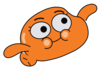
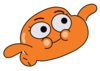
docs(design): Darwin swimming view, notch, mouth and arm joint (NAK-353)

diff --git a/docs/design/darwin/build.py b/docs/design/darwin/build.py
@@ -63,7 +63,7 @@ def front():
 
 
 # Swimming view, traced in the 680x480 crop of the swimming reference.
-SWIM_PTS = [(380, 48), (430, 56), (468, 88), (500, 108), (545, 118), (580, 150), (598, 200),
+SWIM_PTS = [(380, 48), (430, 56), (462, 80), (484, 106), (508, 104), (545, 116), (580, 150), (598, 200),
             (596, 250), (570, 295), (525, 332), (470, 360), (410, 385), (350, 402), (290, 412),
             (240, 405), (195, 380), (160, 340), (142, 290), (140, 240), (155, 190), (190, 140),
             (240, 100), (300, 68), (340, 54)]
@@ -80,7 +80,7 @@ def swim():
         # paths so the joint with the body carries no outline.
         '<path d="M150 352c-28 30-10 80 30 92 36 10 66-6 70-36" fill="%s" %s/>' % (BODY, s),
         '<path d="M158 392l26 12M192 420l14 22" fill="none" %s/>' % s,
-        '<path d="M205 316C150 286 90 290 50 320c-35 25-30 65 0 70 35 2 60-25 100-40l45-4" fill="%s" %s/>' % (BODY, s),
+        '<path d="M218 318C160 288 92 288 50 320c-35 25-30 65 0 70 35 2 60-25 100-40" fill="%s" %s/>' % (BODY, s),
         '<ellipse cx="275" cy="205" rx="70" ry="56" transform="rotate(-12 275 205)" fill="%s" %s/>' % (WHITE, s),
         '<ellipse cx="418" cy="155" rx="67" ry="62" fill="%s" %s/>' % (WHITE, s),
         '<circle cx="297" cy="198" r="22" fill="%s"/><circle cx="437" cy="140" r="21" fill="%s"/>' % (INK, INK),
@@ -89,7 +89,7 @@ def swim():
         '<path d="M236 136c16-12 40-16 60-10M372 84c18-12 42-12 58-2" fill="none" %s/>' % s.replace('"5"', '"8"'),
         cheek(318, 291, 37, 205, 110, 1).replace('width="7"', 'width="5"'),
         cheek(447, 236, 37, -40, 70, 0).replace('width="7"', 'width="5"'),
-        '<path d="M355 284Q386 280 412 256" fill="none" %s/>' % s,
+        '<path d="M354 287C372 292 396 270 412 262" fill="none" %s/>' % s,
         '<circle cx="318" cy="289" r="21" fill="%s"/><circle cx="443" cy="233" r="21" fill="%s"/>' % (LIGHT, LIGHT),
     ])
 

diff --git a/docs/design/darwin/README.md b/docs/design/darwin/README.md
@@ -31,7 +31,7 @@ dark ones (1.07:1).
 
 - Front: legs are thinner and closer together, with a darker outline; tail
   fin shape and stripes are approximate; lower cheek arcs sit a few px high.
-- Swimming: the top-right notch where the leg meets the body is missing; the
+- Swimming: the top-right notch is shallower than the reference; the
   arm joins the body with a visible corner; the tail fin is simplified; the
   mouth is a single curve; brows are neutral on purpose (the reference frowns).
 - No three-quarter view yet. Shoes are not drawn: no reference shows them.
